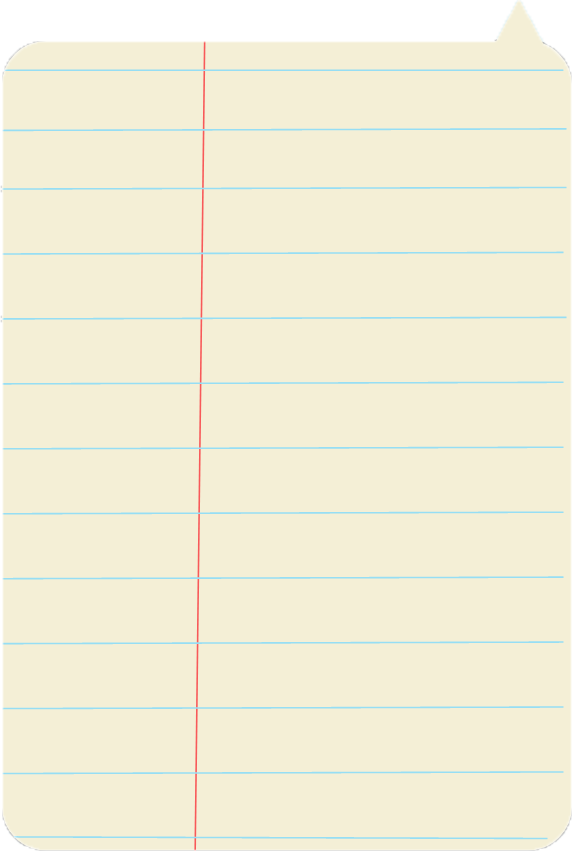
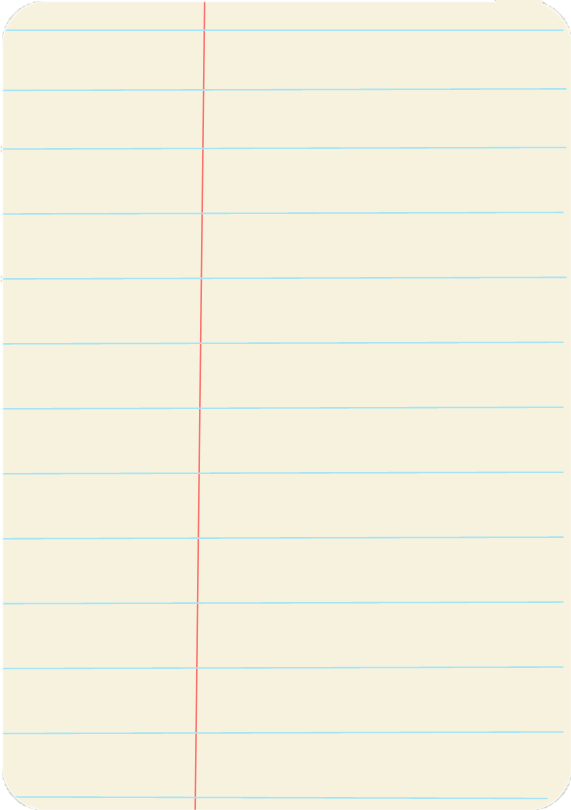
add hisorty page

diff --git a/miniprojectdic/lib/history.dart b/miniprojectdic/lib/history.dart
@@ -1,0 +1,193 @@
+import 'package:flutter/material.dart';
+
+class History extends StatefulWidget {
+  @override
+  _HistoryState createState() => _HistoryState();
+}
+
+class _HistoryState extends State<History> {
+  @override
+  Widget build(BuildContext context) {
+    return Scaffold(
+      backgroundColor: Color.fromRGBO(216, 236, 228, 5),
+      appBar: AppBar(
+        title: Row(
+          mainAxisAlignment: MainAxisAlignment.center,
+          children: [
+            ClipOval(
+              child: Material(
+                color: Colors.blue[800], // button color
+                child: InkWell(
+                  child: SizedBox(
+                      width: 36,
+                      height: 36,
+                      child: Icon(
+                        Icons.history,
+                        size: 30,
+                        color: Colors.white,
+                      )),
+                ),
+              ),
+            ),
+            SizedBox(
+              width: 5,
+            ),
+            Text(
+              'HISTORY',
+              style: TextStyle(color: Colors.black, fontSize: 25),
+            ),
+          ],
+        ),
+        elevation: 0,
+        backgroundColor: Color.fromRGBO(230, 236, 228, 50),
+      ),
+      body: Column(
+        children: [
+          Stack(
+            children: <Widget>[
+              Padding(
+                padding: const EdgeInsets.only(left: 22, top: 30),
+                child: DecoratedBox(
+                  decoration: BoxDecoration(
+                    image: DecorationImage(
+                      image: AssetImage("asset/images/bg2.png"),
+                      fit: BoxFit.fill,
+                    ),
+                  ),
+                  child: Container(
+                    height: 580,
+                    width: 420,
+                    child: Padding(
+                      padding: const EdgeInsets.only(top: 20),
+                      child: SingleChildScrollView(
+                        child: Column(
+                          children: [
+                            Row(
+                              //Row ของคอลัมตัวอักษรอังกฤษกับไทย
+                              children: [
+                                Row(
+                                  //คอลัมอังกฤษ
+                                  children: [
+                                    SizedBox(
+                                      width: 50,
+                                      height: 50,
+                                    ),
+                                    Container(
+                                      height: 30,
+                                      width: 80,
+                                      child: ListView(
+                                        scrollDirection: Axis.horizontal,
+                                        children: [
+                                          Container(
+                                            child: Text(
+                                              'apple melmon',
+                                              style: TextStyle(
+                                                fontSize: 20,
+                                                fontWeight: FontWeight.bold,
+                                              ),
+                                            ),
+                                          ),
+                                        ],
+                                      ),
+                                    ),
+                                  ],
+                                ),
+                                Row(
+                                  //คอลัมไทย
+                                  children: [
+                                    SizedBox(
+                                      width: 50,
+                                      height: 50,
+                                    ),
+                                    Container(
+                                      height: 29,
+                                      width: 200,
+                                      child: ListView(
+                                        scrollDirection: Axis.horizontal,
+                                        children: [
+                                          Container(
+                                            child: Text(
+                                              'แอปเปิ้ล มะนาว กล้วย ส้ม',
+                                              style: TextStyle(
+                                                fontSize: 20,
+                                              ),
+                                            ),
+                                          ),
+                                        ],
+                                      ),
+                                    ),
+                                  ],
+                                ),
+                              ],
+                            ),
+                            Row(
+                              //Row ของคอลัมตัวอักษรอังกฤษกับไทย
+                              children: [
+                                Row(
+                                  //คอลัมอังกฤษ
+                                  children: [
+                                    SizedBox(
+                                      width: 50,
+                                      height: 50,
+                                    ),
+                                    Container(
+                                      height: 30,
+                                      width: 80,
+                                      child: ListView(
+                                        scrollDirection: Axis.horizontal,
+                                        children: [
+                                          Container(
+                                            child: Text(
+                                              'apple melmon',
+                                              style: TextStyle(
+                                                  fontSize: 20,
+                                                  fontWeight: FontWeight.bold),
+                                            ),
+                                          ),
+                                        ],
+                                      ),
+                                    ),
+                                  ],
+                                ),
+                                Row(
+                                  //คอลัมไทย
+                                  children: [
+                                    SizedBox(
+                                      width: 50,
+                                      height: 50,
+                                    ),
+                                    Container(
+                                      height: 29,
+                                      width: 200,
+                                      child: ListView(
+                                        scrollDirection: Axis.horizontal,
+                                        children: [
+                                          Container(
+                                            child: Text(
+                                              'แอปเปิ้ล มะนาว กล้วย ส้ม',
+                                              style: TextStyle(
+                                                fontSize: 20,
+                                              ),
+                                            ),
+                                          ),
+                                        ],
+                                      ),
+                                    ),
+                                  ],
+                                ),
+                              ],
+                            ),
+                          ],
+                        ),
+                      ),
+                    ),
+                  ),
+                ),
+              ),
+            ],
+          ),
+        ],
+      ),
+    );
+  }
+}
